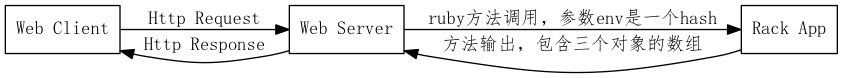
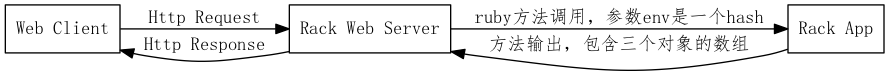
m

Changed region(s): [[0.0, 0.0526, 1.0, 0.9474]]

diff --git a/_posts/2015-02-26-puma.md b/_posts/2015-02-26-puma.md
@@ -63,10 +63,8 @@ Web服务器根据Http请求的路径和其他头部信息来决定如何输出H
 
 ### Ruby/Rack Web服务器
 
-Puma是一个支持Ruby/Rack applications的Web服务器。其它支持Rack规范的Web服务器还有Unicorn／Thin／Passenger等。Rack的官方网站是
-[rack.github.io](http://rack.github.io/).
-
-支持Rack的Web服务器的架构如图2所示：
+Rack的官方网站是
+[rack.github.io](http://rack.github.io/)。支持Rack的Web服务器的架构如图2所示：
 
 <img src="/dot/2.png" alt="图2: Rack Web服务器架构"/>
 
@@ -78,6 +76,55 @@ Rack应用的输入是一个表示环境的hash，输出是一个数组包括三
 
 Rack服务器和Rack应用之间通过ruby对象交互，Rack服务器直接调用Rack应用；而Web服务器和Web客户端之间则是通过字符串流交互。
 
-
+Puma是一个支持Ruby/Rack applications的Web服务器。其它支持Rack规范的Web服务器还有Unicorn／Thin／Passenger等。
 
 ### Puma的源代码结构
+
+Puma是一个典型的Rack服务器。其总体目录结构与关键源代码文件如下：
+
+		
+	├── bin 	可执行脚本
+	│   ├── puma  	启动脚本
+	│   ├── puma-wild
+	│   └── pumactl 	控制脚本
+	├── docs 文档
+	├── examples 	一些例子文件
+	├── ext 	ruby的原生扩展，实现快速解析HTTP的头部
+	│   └── puma_http11  
+	├── lib
+	│   ├── puma
+	│   │   ├── app
+	│   │   │   └── status.rb		响应pumactl的控制请求
+	│   │   ├── binder.rb			启动并绑定Tcp／Unix端口
+	│   │   ├── cli.rb			Puma的命令行接口，解析命令行参数
+	│   │   ├── client.rb			代表Http请求的客户端
+	│   │   ├── cluster.rb			Puma的集群模式
+	│   │   ├── configuration.rb  Puma的配置参数
+	│   │   ├── control_cli.rb	 命令行控制脚本的实现代码
+	│   │   ├── daemon_ext.rb		 实现puma进程的daemon化
+	│   │   ├── events.rb			 服务器的事件支持
+	│   │   ├── null_io.rb			当request没有body时rack.input的值
+	│   │   ├── rack_default.rb	指定缺省的rack handler
+	│   │   ├── rack_patch.rb		Patch CommonLogger to use after_reply
+	│   │   ├── reactor.rb		所有需要监听新数据的client链接，放到reactor的@sockets队列中
+	│   │   ├── runner.rb		启动Puma Server的基类,Single/Cluster继承它
+	│   │   ├── server.rb		The HTTP Server itself. Serves out a single Rack app.
+	│   │   ├── single.rb		Puma的单进程模式
+	│   │   ├── thread_pool.rb 线程池，其中是所有可执行的worker
+	│   ├── puma.rb
+	│   └── rack
+	│       └── handler
+	│           └── puma.rb		缺省的puma rack handler实现
+	├── test  测试代码
+	└── tools 进程监控脚本：init.d/upstart
+	    ├── jungle
+	    │   ├── init.d
+	    │   └── upstart
+	
+
+
+本系列后续部分将详细分析Puma如何启动、如何监听tcp连接，如何解析http header，如何执行rack app，如何响应控制命令，如何处理文件上传，如何实现集群模式，如何使用reactor模型处理io等。Puma中关于Jruby和SSL支持的部分不感兴趣，本文档不会涉及。
+
+
+
+
